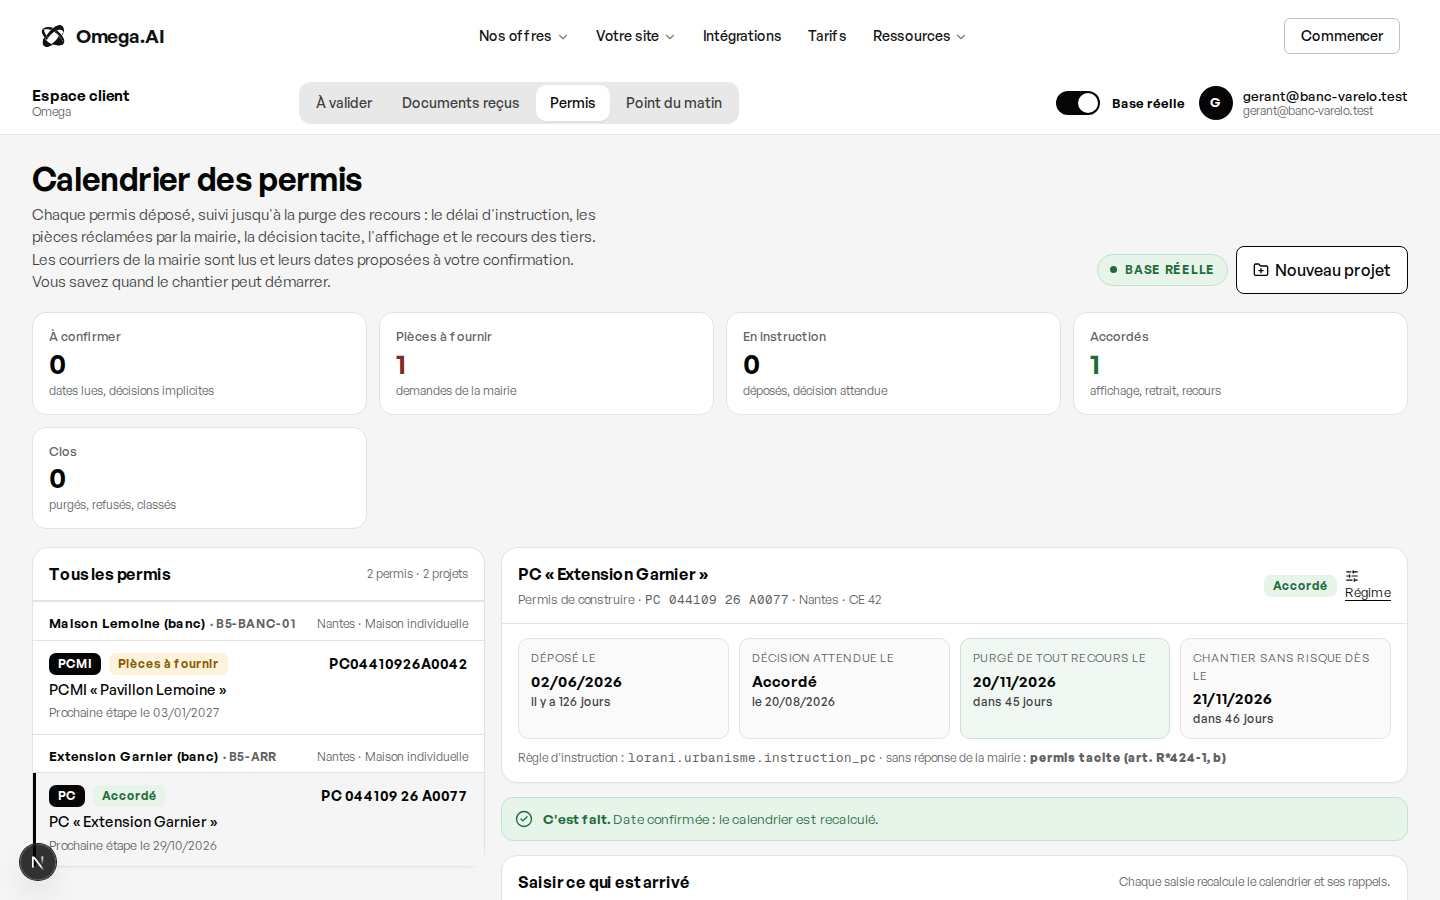
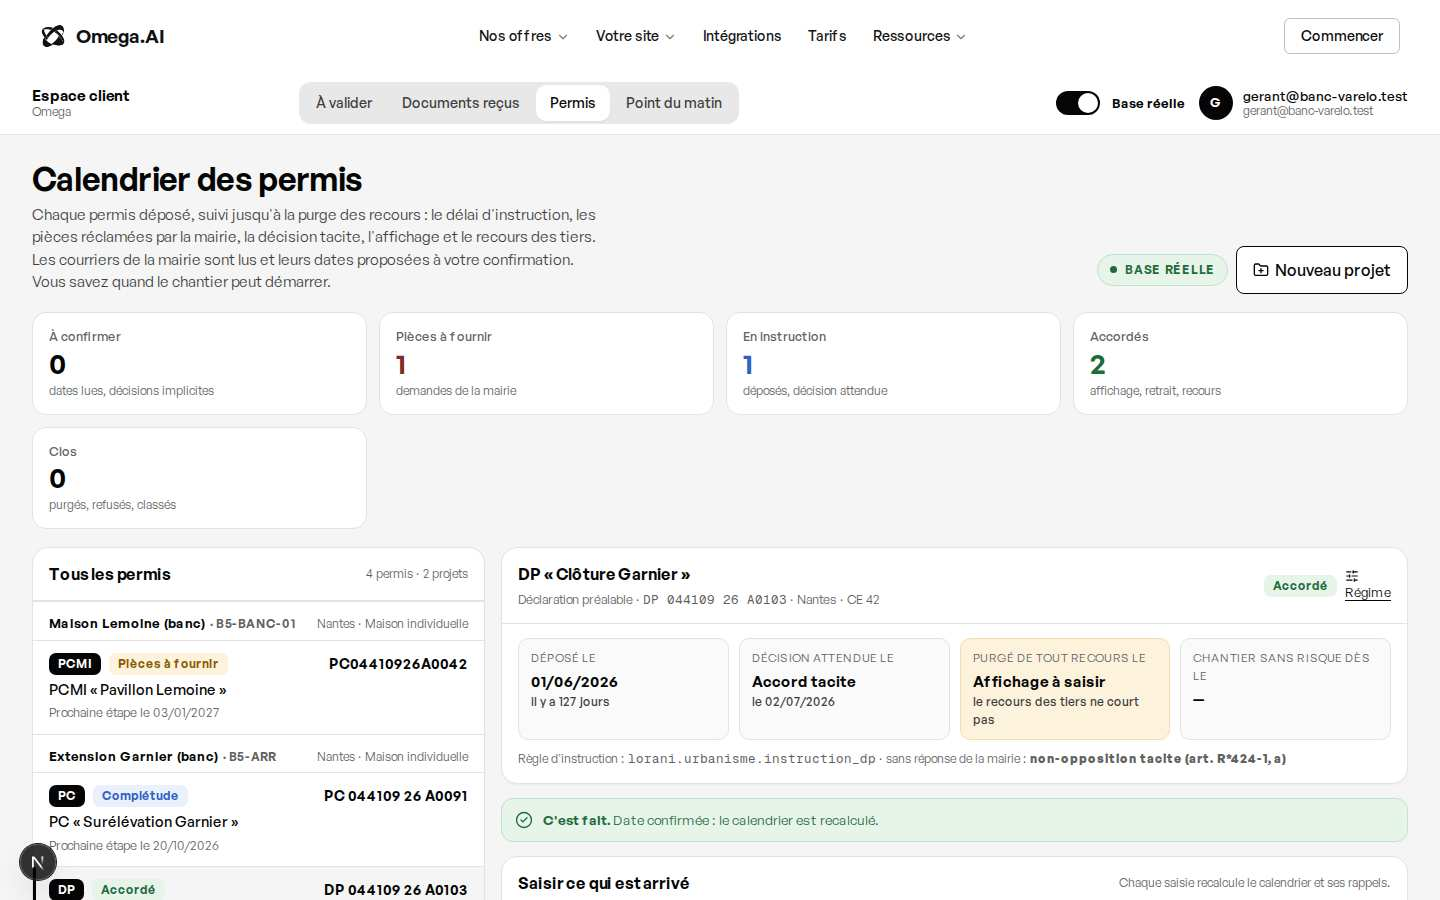
LORANI B5 : lettre de délai et certificat tacite réels lus, proposés, confirmés — les six types de courriers prouvés ; le script s'arrête hors base réelle
Claude-Session: https://claude.ai/code/session_018iNiXjY8eWmMjaGrXSGgma

diff --git a/omega/NOTES-B5.md b/omega/NOTES-B5.md
@@ -8,7 +8,7 @@ Dernière mise à jour : 05/10/2026, 23 h.
 | Jauge | Valeur | Ce qui la fait monter |
 |---|---|---|
 | **Mécanique** (le socle fait ce que la page promet, prouvé par des tests joués sur la recette) | 95 % (114/114 le 06/10 à 2 h 05 Z, b5_05 et b5_06 posées ; avant :) 90 % (**111/111** à 9ba2900, b5_01 à b5_04 posées sur la recette) | b5_01 à b5_03 posés sur la recette ; test pgTAP joué par le coordinateur : **110/111** (20 étapes : projet, équipe, RLS, lecture simulée par les portes du lecteur, confirmation, échéances dans `delais`, rappel J-10 par `controler_delais` → alerte → envoi `a_valider` au chef de projet, décision tacite, affichage, recours, purge, mesures, journal) ; les deux rouges corrigés (b5_04 + lecture du point) : **111/111 le 06/10 à 0 h 01 Z** ; manque : le lecteur réel ne connaît pas les types Lorani (spécification écrite, à A1) |
-| **Livrable client** (un gérant d'agence ouvre /espace/lorani et suit un vrai permis) | 94 % (06/10, 2 h 26 Z : arrêté et constat d'affichage réels aussi ; 2 h 10 Z : récépissé et demande de pièces réels lus par le lecteur, proposés, confirmés par l'écran ; avant :) 85 % (**en ligne** sur https://omegaai.fr/espace/lorani depuis le 06/10, 0 h 52) | écran recetté aux cinq largeurs (41 contrôles), **relu en base réelle** avec `gerant@banc-varelo.test` : projet et PCMI créés par l'écran, calendrier calculé par le socle, **un vrai récépissé déposé et lu par le lecteur** (mais rendu « courrier non reconnu », voir § 3) ; fusion sur `main` en cours chez le coordinateur ; reste la vérification sur omegaai.fr et le rejeu du dépôt réel quand le lecteur connaît les types |
+| **Livrable client** (un gérant d'agence ouvre /espace/lorani et suit un vrai permis) | 96 % (06/10, 2 h 46 Z : les six types de courriers réels ; 2 h 26 Z : arrêté et constat d'affichage réels aussi ; 2 h 10 Z : récépissé et demande de pièces réels lus par le lecteur, proposés, confirmés par l'écran ; avant :) 85 % (**en ligne** sur https://omegaai.fr/espace/lorani depuis le 06/10, 0 h 52) | écran recetté aux cinq largeurs (41 contrôles), **relu en base réelle** avec `gerant@banc-varelo.test` : projet et PCMI créés par l'écran, calendrier calculé par le socle, **un vrai récépissé déposé et lu par le lecteur** (mais rendu « courrier non reconnu », voir § 3) ; fusion sur `main` en cours chez le coordinateur ; reste la vérification sur omegaai.fr et le rejeu du dépôt réel quand le lecteur connaît les types |
 
 **Ce qui manque** : le lecteur (A1) doit apprendre les six types de courriers Lorani (`omega/modules/lorani/CHAMPS-LECTURE-LORANI.md`) ;
 la fusion dans `main` ; la vérification sur omegaai.fr. **Ce que Teo doit fournir** : rien pour l'instant ; pour que
@@ -338,4 +338,22 @@ toucher « Pavillon Lemoine ». Courriers : `fabriquer-courrier.mjs arrete|const
 - **À faire valider par un juriste (remonté à Teo par le coordinateur)** : une seconde demande de pièces envoyée
   DANS le mois qui suit le dépôt — complète-t-elle valablement la première (et fait-elle partir le délai de trois mois
   de sa propre date pour les pièces qu'elle ajoute) ? b5_07 garde la date de la première lettre, le choix prudent.
+
+## 9. Les deux derniers types en réel : lettre de délai, certificat tacite (06/10, 2 h 33–2 h 46 Z, lecteur v17)
+
+Deux permis neufs dans le dossier « Extension Garnier (banc) », créés sous RLS par le gérant : PC « Surélévation
+Garnier » (ec65b452…, PC 044109 26 A0091, déposé le 2026-09-20) et DP « Clôture Garnier » (252ff65a…, DP 044109 26
+A0103, déposée le 2026-06-01 ; le socle la met d'emblée en `decision_a_confirmer`, non-opposition tacite au 02/07).
+- `lettre-delai-garnier.pdf` (« porté à 6 mois », R*423-28, ABF) : proposition à 388 s `{delai_notifie_mois: 6,
+  date_notification_delai: 2026-10-02}`, vérifiée, confirmée → décision attendue **2027-03-20** (dépôt + 6 mois),
+  échéance `instruction` 2027-03-20 ouverte, complétude 2026-10-20 ouverte.
+- `certificat-tacite-garnier.pdf` (« non-opposition tacite à compter du 02/07/2026 ») : proposition à 247 s
+  `{date_decision: 2026-07-02}`, confirmée → `accorde`, décision `tacite` du 2026-07-02 ; retrait 2026-10-02 tenu ;
+  affichage 2026-07-17 encore `ouvert` (date passée, à voir si `controler_delais` le passe en dépassé) ; pas de
+  purge sans affichage, avertissement R*600-2 / R600-3. Juste.
+- **Les six types de courriers Lorani sont prouvés en réel** (lecteur → socle → écran → confirmation).
+- Incident sans conséquence : au premier essai, un `next start` resté d'une recette (build sans les variables de la
+  recette) servait les données d'exemple ; le script n'a pas trouvé le permis et a « confirmé » la lettre d'exemple
+  d'un autre permis, en mémoire seulement (rien en base). `courrier-reel.mjs` s'arrête désormais si le permis visé
+  n'est pas ouvert en base réelle.
 
